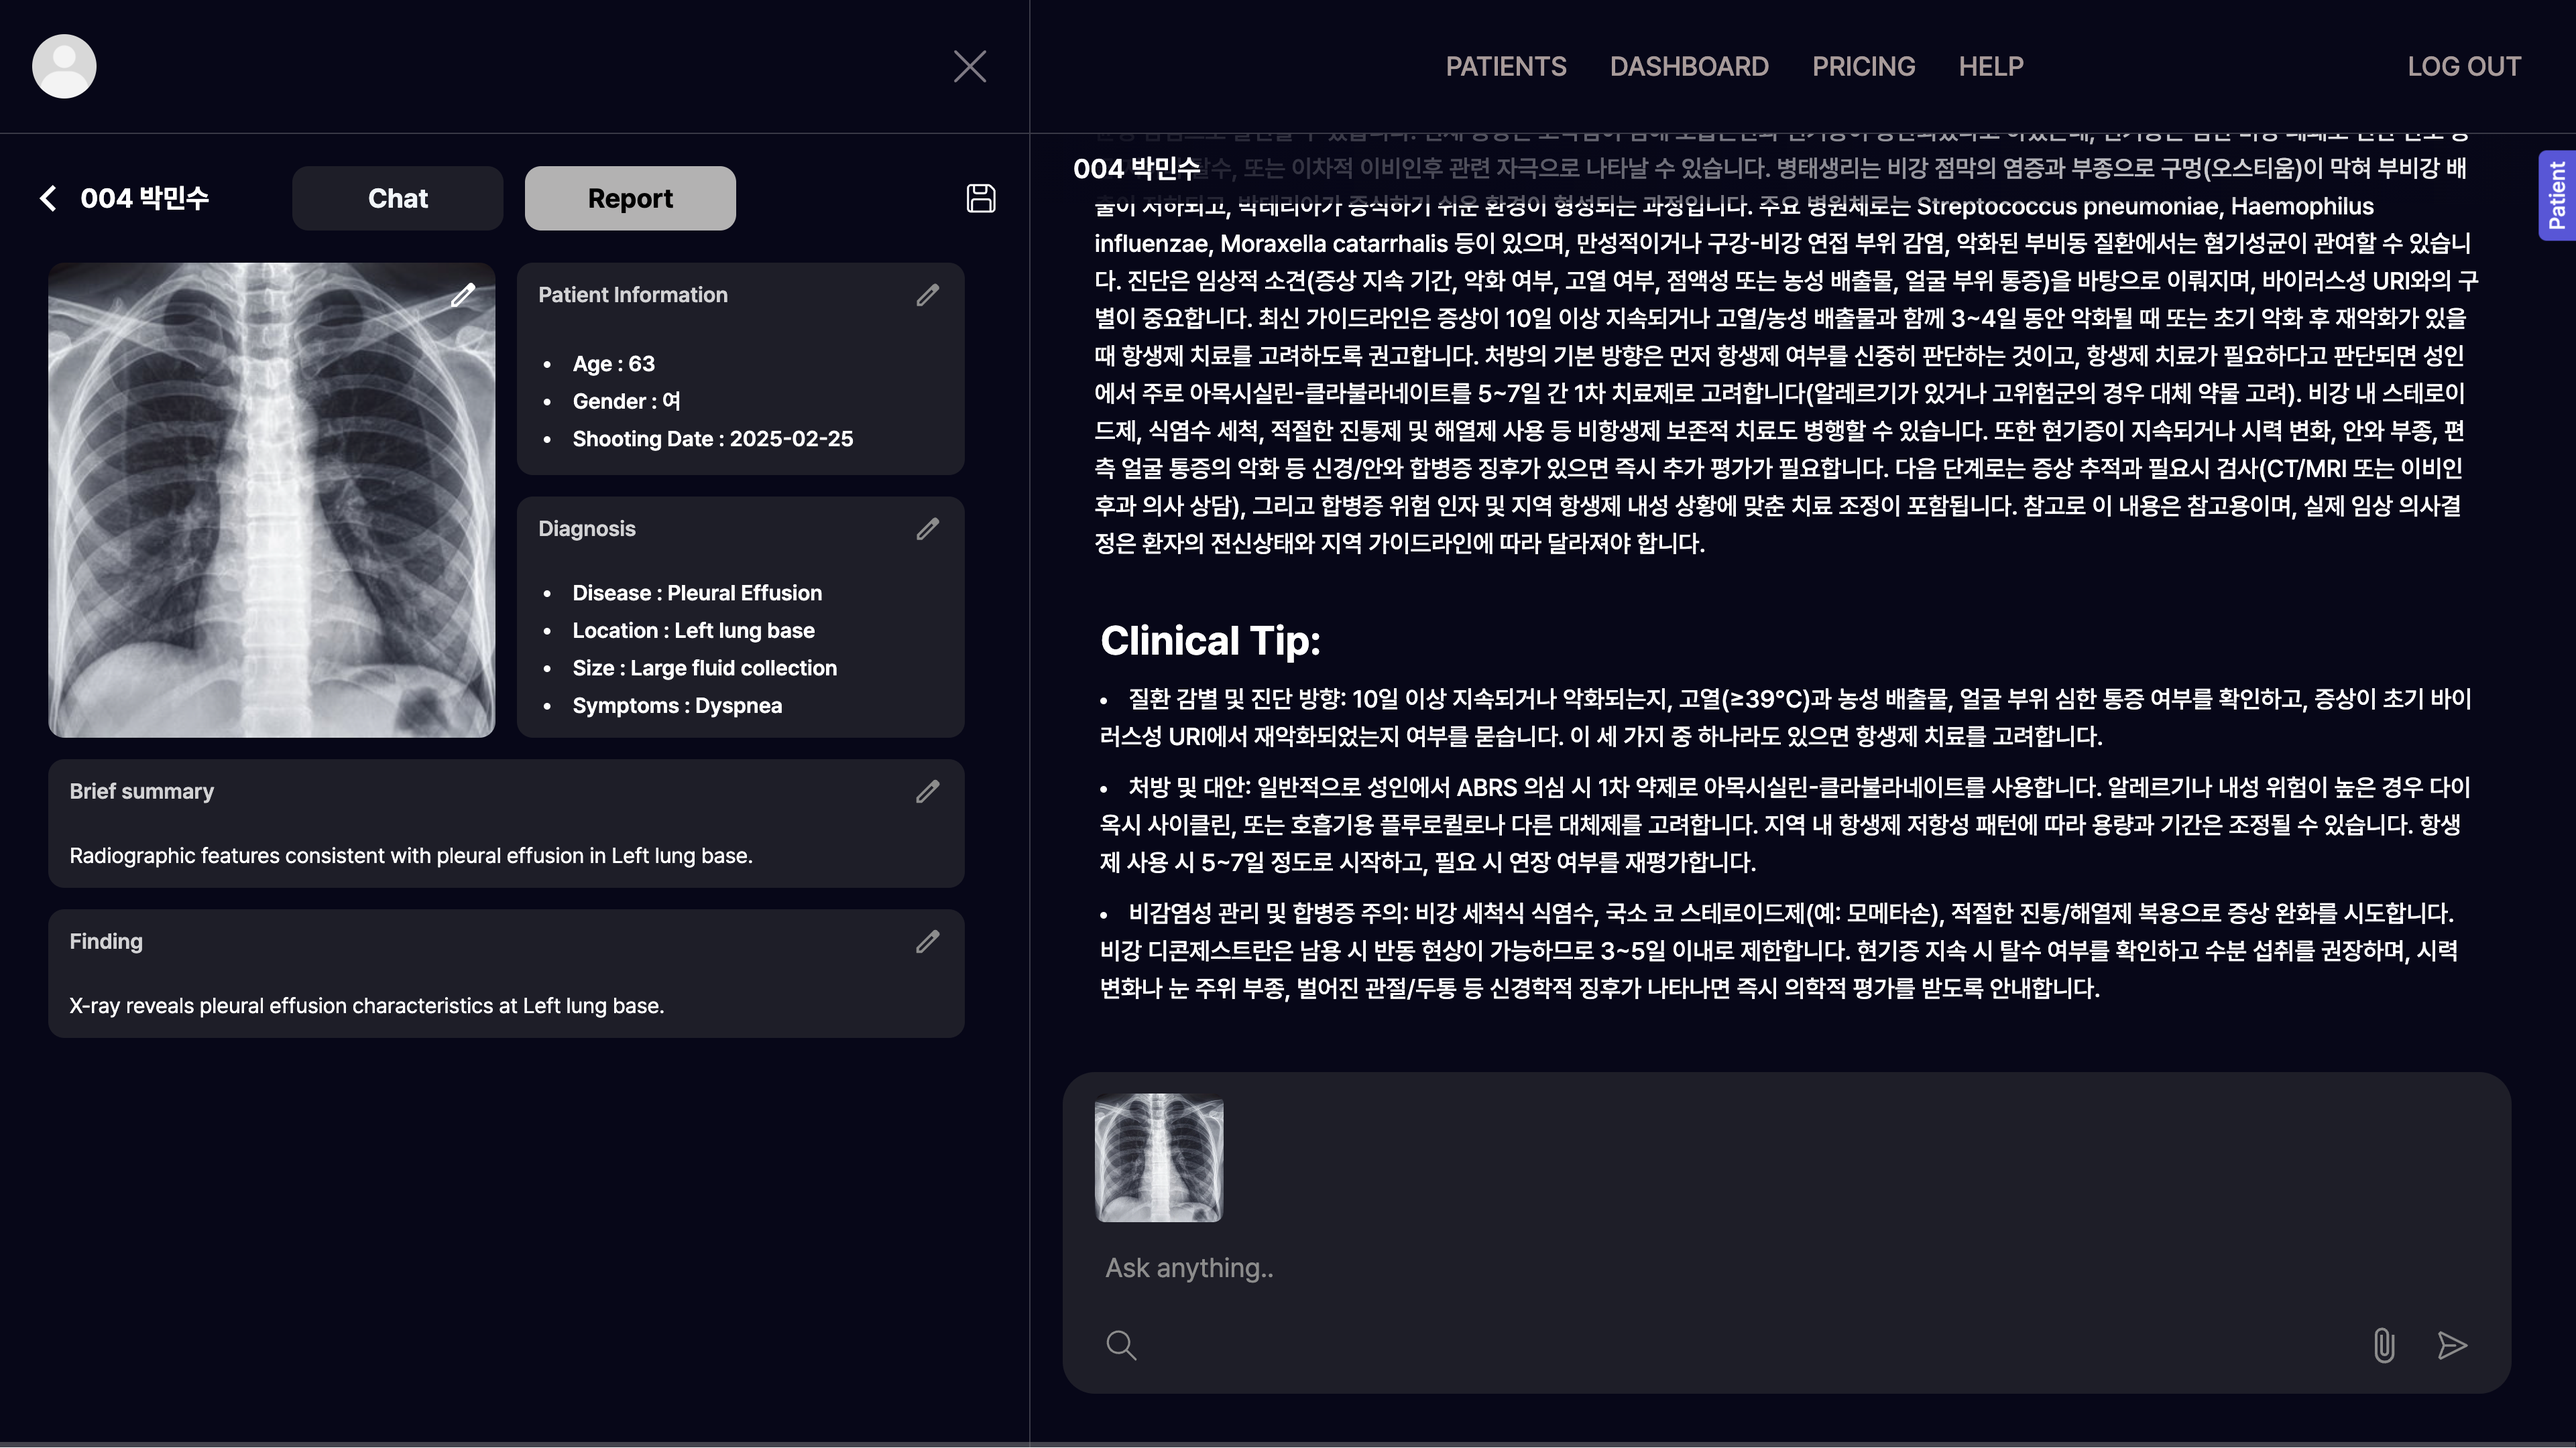
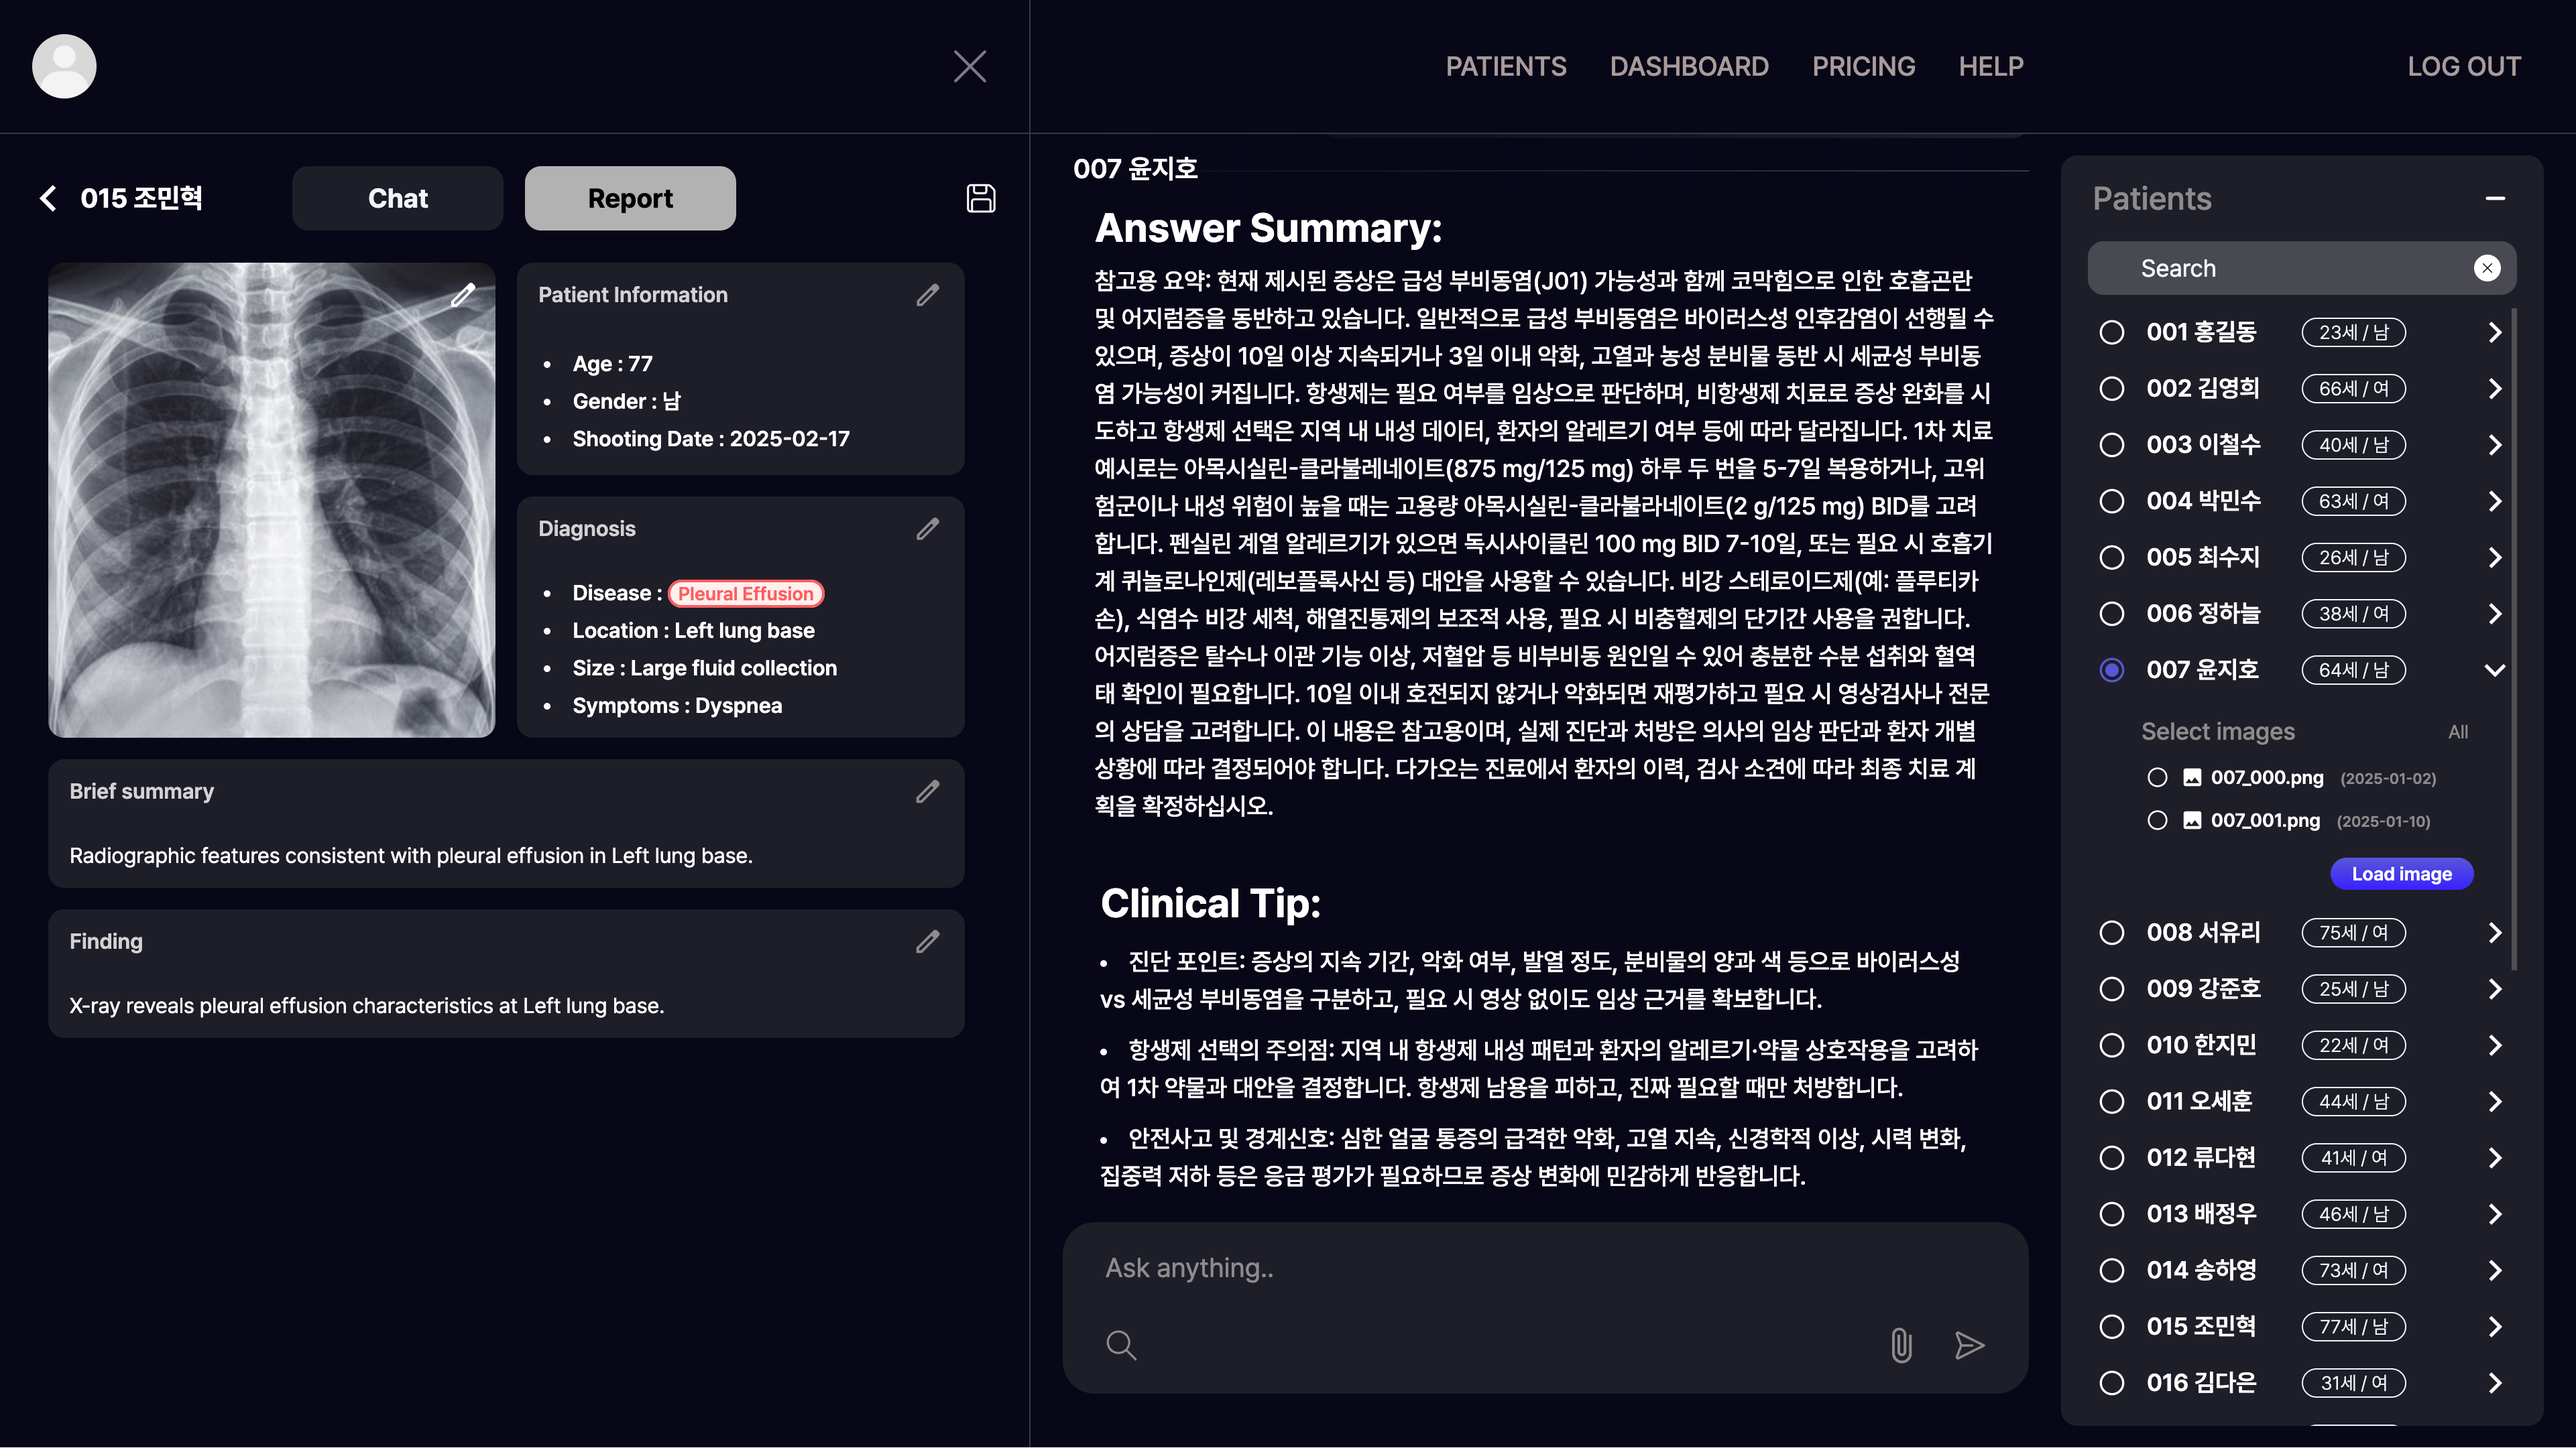
Refactor: 리포트 보기 질병명 표시 변경 - 리드미 사진 교체

diff --git a/NewMes/src/components/box/DetailBox.tsx b/NewMes/src/components/box/DetailBox.tsx
@@ -22,7 +22,14 @@ const DetailBox = ({ type, size, title, detail }: DetailBoxProps) => {
           <ul className="w-full h-fit font-pre-semi-bold space-y-1 list-disc list-inside marker:text-white marker:text-base">
             {Object.entries(detail as { [key: string]: string | number }).map(([key, value]) => (
               <li key={key} className="pl-1">
-                {key} : {value}
+                {key} :{" "}
+                {key === "Disease" ? (
+                  <span className="px-1.5 border-2 border-disease1 bg-disease2 rounded-full text-disease1 text-sm whitespace-nowrap">
+                    {value}
+                  </span>
+                ) : (
+                  value
+                )}
               </li>
             ))}
           </ul>

diff --git a/NewMes/src/mocks/handlers.ts b/NewMes/src/mocks/handlers.ts
@@ -92,14 +92,14 @@ const handlers = [
   }),
 
   // 최신 뉴스 목록 조회
-  http.get(`https://newsapi.org/v2/top-headlines?country=us&category=health&apiKey=${VITE_NEWS_API_KEY}`, () => {
-    return HttpResponse.json(NEWS_DATA);
-    // return HttpResponse.json({
-    //   status: "ok",
-    //   totalResults: 0,
-    //   articles: [],
-    // });
-  }),
+  // http.get(`https://newsapi.org/v2/top-headlines?country=us&category=health&apiKey=${VITE_NEWS_API_KEY}`, () => {
+  //   return HttpResponse.json(NEWS_DATA);
+  // return HttpResponse.json({
+  //   status: "ok",
+  //   totalResults: 0,
+  //   articles: [],
+  // });
+  // }),
 ];
 
 export default handlers;
